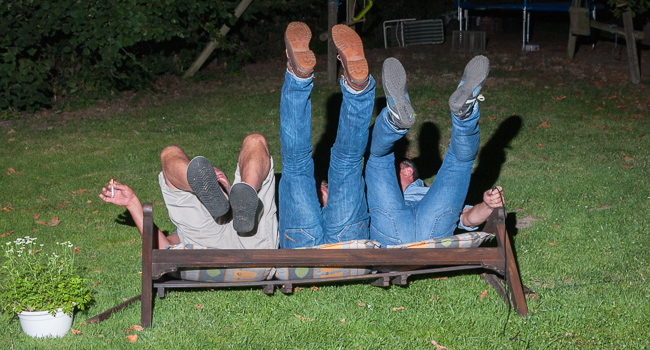
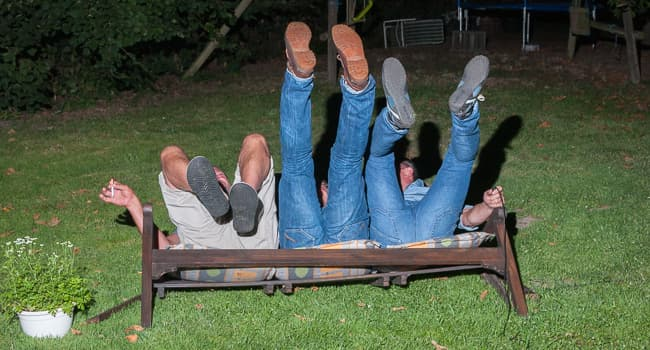
optimize

diff --git a/Gruntfile.js b/Gruntfile.js
@@ -1,4 +1,6 @@
 'use strict';
+var mozjpeg = require('imagemin-mozjpeg');
+
 module.exports = function(grunt) {
 
   grunt.initConfig({
@@ -26,15 +28,13 @@ module.exports = function(grunt) {
     imagemin: {
       dist: {
         options: {
-          optimizationLevel: 7,
-          progressive: true
+          optimizationLevel: 7
         },
         files: [{
           expand: true,
-          cwd: 'images/',
-          src: '**/*.{png,jpg,jpeg,JPG}',
-//      src: '{,*/}*.{png,jpg,jpeg,JPG}',
-          dest: 'images/'
+          cwd: 'assets/images/_fullsize/',
+          src: '**/*.{gif,GIF,jpg,JPG,png,PNG}',
+          dest: 'assets/images/_imagemin/'
         }]
       }
     },
@@ -70,7 +70,7 @@ module.exports = function(grunt) {
   grunt.loadNpmTasks('grunt-contrib-watch');
   grunt.loadNpmTasks('grunt-contrib-imagemin');
   grunt.loadNpmTasks('grunt-svgmin');
-  grunt.loadNpmTasks('grunt-responsive-images');
+//  grunt.loadNpmTasks('grunt-responsive-images');
 
   // Register tasks
   grunt.registerTask('default', [

diff --git a/_posts/2015-04-26-der-erste-einsatz.md b/_posts/2015-04-26-der-erste-einsatz.md
@@ -2,7 +2,7 @@
 layout: post
 title:  "Der erste Einsatz!"
 subtitle: "Es ist geschafft und es war ein voller Erfolg"
-background-image: /header/Full-HD-0853.jpg
+background-image: /header/fotobox-mieten-gernsheim.jpg
 date:   2015-04-26 19:58:28 +0100
 ---
 Gestern war es endlich soweit. Die Foto Box hatte bei einer Geburtstags Party im [Gernsheimer Fährhaus] mit fast 100 Gästen Ihre Premiere.

diff --git a/_posts/2015-07-19-auch-outdoor-ein-hit.md b/_posts/2015-07-19-auch-outdoor-ein-hit.md
@@ -2,7 +2,7 @@
 layout: post
 title:  "Auch Outdoor ein Hit!"
 subtitle: "Die FotoBox, umwerfend gut!"
-background-image: /header/Full-HD-0872.jpg
+background-image: /header/fotobox-gernsheim-in-action.jpg
 date:   2015-07-19 16:25:44 +0100
 ---
 Die FotoBox war wieder gefragt. Dieses mal für eine Silberhochzeit im Freien.
